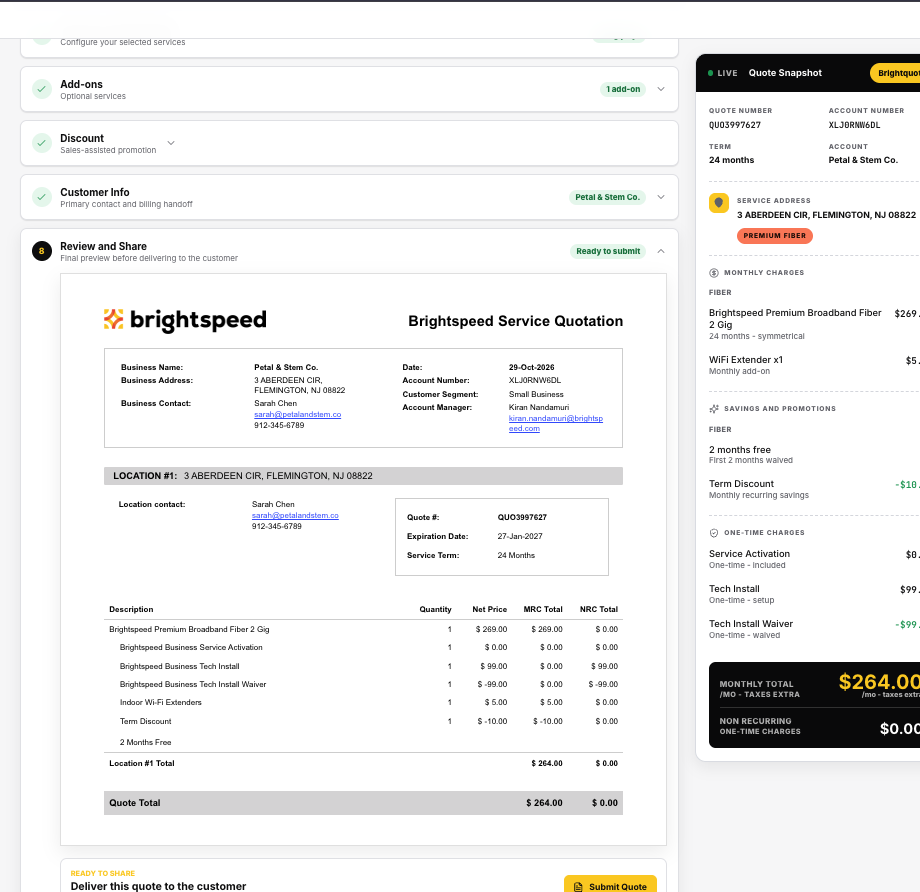
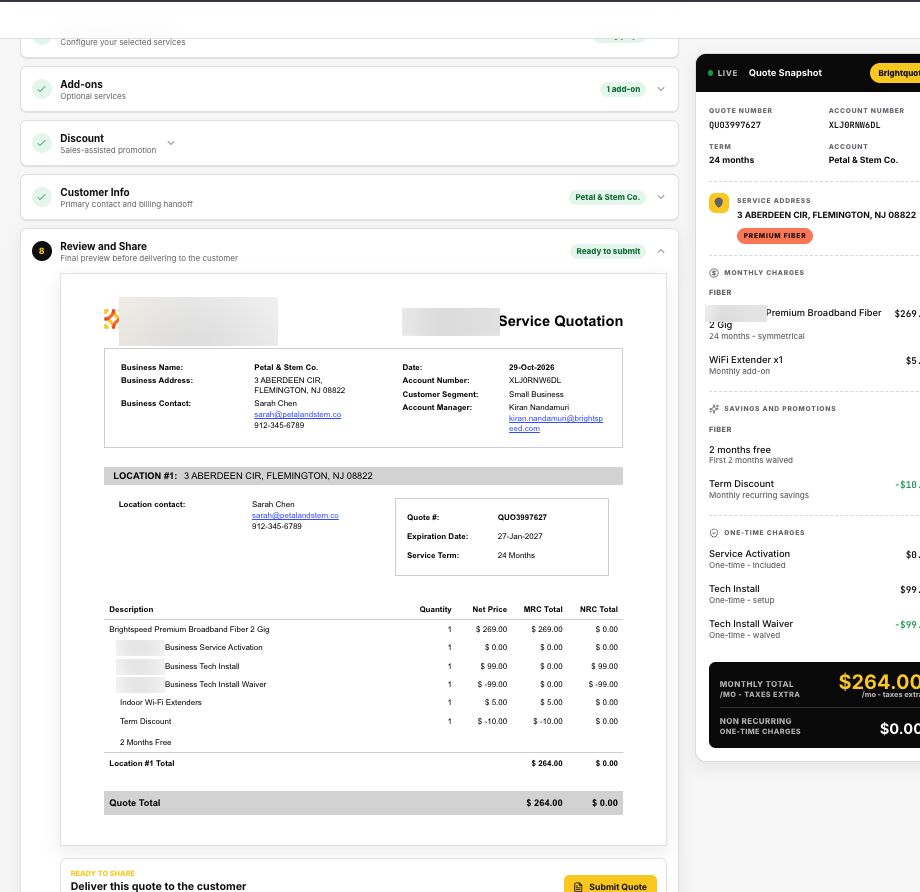
Remove client name from copy and blur it in screenshots
Claude-Session: https://claude.ai/code/session_01K16WNF7J7RLyXp5MuQU3xa

diff --git a/src/lib/cpq.ts b/src/lib/cpq.ts
@@ -7,14 +7,14 @@ const img = (n: string) => asset(`cpq/${n}.png`);
 export const cpq: Study = {
   slug: 'cpq',
   title: 'CPQ 2.0 & Express Quote',
-  eyebrow: 'Brightspeed · Sales quoting',
+  eyebrow: 'US telecom · Sales quoting',
   artDir: 'cpq',
   next: { to: '/work/cost-of-attention', label: 'Next study: The Cost of Attention' },
   slides: [
     {
       nav: 'Overview',
       kind: 'title',
-      eyebrow: 'Case study · Brightspeed',
+      eyebrow: 'Case study · US telecom',
       title: 'CPQ 2.0 & Express Quote',
       lead: 'A quoting tool that took agents two and a half hours per quote, rebuilt as a four-stage flow that takes thirty minutes. Then a second, faster path once the data showed customers stop listening at fifteen. I was the only designer on both. Somewhere in the middle I stopped handing over Figma files and started handing over code, and this is the story of how that happened.',
       facts: [['Role', 'Sole designer · ~300 developers · 560 screens'], ['Arc', 'Product thinking → systems thinking → engineering ownership'], ['Status', 'CPQ 2.0 shipped, 700+ daily users · Express Quote shipped'], ['System', 'cpq-design-system-v20.vercel.app']],
@@ -26,7 +26,7 @@ export const cpq: Study = {
       chapter: '01 · The problem',
       title: 'Forty-seven steps in ServiceNow, and a quote that took most of an afternoon.',
       body: [
-        'An agent at Brightspeed helps a small or mid-size business buy connectivity and voice services. The opportunity starts in Salesforce; the quote gets built in CPQ. Picture a hospital with four branches. Each site can have different services, different product eligibility (copper here, fibre there), different billing accounts. The agent has to get all of that right without calling the customer back four times.',
+        'An agent at the telecom helps a small or mid-size business buy connectivity and voice services. The opportunity starts in Salesforce; the quote gets built in CPQ. Picture a hospital with four branches. Each site can have different services, different product eligibility (copper here, fibre there), different billing accounts. The agent has to get all of that right without calling the customer back four times.',
         'CPQ 1.0 was a ServiceNow workflow with around 47 steps. Data came from BRIM and AMS and the APIs failed often enough that agents had learned to expect it. Nothing was carried forward between steps, so the agent had to remember what they had entered, or write it down. Invalid product combinations were easy to pick and expensive to unpick later. One quote took two and a half to three hours.',
         'In the first walkthrough someone said the chance of an error on a quote was "about 95%". I have never been able to pin down how that was measured, so I do not use it as a number. I use it as a description of how people felt about the tool.',
       ],

diff --git a/src/pages/home.tsx b/src/pages/home.tsx
@@ -130,7 +130,7 @@ export default function Home() {
         <Reveal><SectionLabel number="03">About</SectionLabel></Reveal>
         <div className="grid items-start gap-10 md:grid-cols-[1fr_272px]">
           <Reveal stagger={0.1} className="max-w-[640px] space-y-5 text-base leading-7">
-            <p>Senior product designer at Infinite Computer Solutions, embedded as the only UX designer on Brightspeed’s business platforms: quoting, billing, and the tools agents use on calls.</p>
+            <p>Senior product designer at Infinite Computer Solutions, embedded as the only UX designer on a US telecom’s business platforms: quoting, billing, and the tools agents use on calls.</p>
             <p>Seven years in, self-taught across design and engineering. I prototype the interfaces I design, in React, Three.js and Babylon.js, because a working thing settles an argument faster than a mock does.</p>
             <p>I use AI heavily to build and to draw. The character on this page is generated to my own definition, and I’d rather say that than hide it.</p>
             <p className="text-ink-2">Based in {site.location}.</p>

diff --git a/src/lib/coa.ts b/src/lib/coa.ts
@@ -7,14 +7,14 @@ const img = (n: string) => asset(`coa/${n}.png`);
 export const coa: Study = {
   slug: 'cost-of-attention',
   title: 'The Cost of Attention',
-  eyebrow: 'Brightspeed · Business Hub + Business 360',
+  eyebrow: 'US telecom · Business Hub + Business 360',
   artDir: 'coa',
   next: { to: '/work/cpq', label: 'Next study: CPQ 2.0 & Express Quote' },
   slides: <Slide[]>[
     {
       nav: 'Overview',
       kind: 'title',
-      eyebrow: 'Case study · Brightspeed',
+      eyebrow: 'Case study · US telecom',
       title: 'The Cost of Attention',
       lead: 'A business customer owes money across several accounts. One person has to collect it, another has to keep running their business while they owe it. I was asked for a banner. This is what I did instead, and what it cost.',
       facts: [['Role', 'Sole UX designer, embedded'], ['Surfaces', 'Agent (B360) · Customer (Hub)'], ['Owned', 'Interaction model, hierarchy, phasing'], ['Status', 'Agent side shipped · Hub phase 1 in build']],

diff --git a/src/lib/site.ts b/src/lib/site.ts
@@ -28,7 +28,7 @@ export type CaseStudy = {
 export const caseStudies: CaseStudy[] = [
   {
     slug: 'cost-of-attention',
-    eyebrow: 'Brightspeed · Business Hub + Business 360',
+    eyebrow: 'US telecom · Business Hub + Business 360',
     title: 'The Cost of Attention',
     lead: 'Designing billing urgency that two different people can live with: the agent who has to collect, and the customer who still has a business to run.',
     facts: [
@@ -40,7 +40,7 @@ export const caseStudies: CaseStudy[] = [
   },
   {
     slug: 'cpq',
-    eyebrow: 'Brightspeed · Sales quoting',
+    eyebrow: 'US telecom · Sales quoting',
     title: 'CPQ 2.0 & Express Quote',
     lead: 'A 47-step quoting tool rebuilt as four stages, then a second, faster path once the data showed customers stop listening at fifteen minutes.',
     facts: [

diff --git a/scripts/scrub-name.py b/scripts/scrub-name.py
@@ -1,0 +1,28 @@
+# Blur every occurrence of a word in a screenshot (OCR at 2x for recall), then re-check. usage: python3 scripts/scrub-name.py WORD file...
+import sys, subprocess, csv, io
+from PIL import Image, ImageFilter
+word = sys.argv[1].lower()
+def boxes(im, scale):
+    big = im.resize((im.width*scale, im.height*scale), Image.LANCZOS)
+    tsv = subprocess.run(['tesseract','stdin','-','--psm','11','tsv'], input=big.convert('RGB').tobytes() if False else None, capture_output=True) if False else None
+    big.save('/tmp/_ocr.png')
+    out = subprocess.run(['tesseract','/tmp/_ocr.png','-','--psm','11','tsv'], capture_output=True, text=True).stdout
+    bx = []
+    for r in csv.DictReader(io.StringIO(out), delimiter='\t', quoting=csv.QUOTE_NONE):
+        if r.get('text') and word in r['text'].lower():
+            l,t,w,h = (int(r[k])//scale for k in ('left','top','width','height'))
+            bx.append((l,t,w,h))
+    return bx
+for p in sys.argv[2:]:
+    im = Image.open(p).convert('RGB'); total = 0
+    for rnd in range(3):
+        bx = boxes(im,1) + boxes(im,2)
+        if not bx: break
+        for l,t,w,h in bx:
+            pad = max(4, h//2)
+            box = (max(0,l-pad), max(0,t-pad), min(im.width,l+w+pad), min(im.height,t+h+pad))
+            region = im.crop(box).filter(ImageFilter.GaussianBlur(radius=max(6,h)))
+            im.paste(region, box); total += 1
+    im.save(p, optimize=True)
+    left = boxes(im,1)+boxes(im,2)
+    print(f'{p}: blurred {total}, remaining {len(left)}')

diff --git a/ILLUSTRATIONS.md b/ILLUSTRATIONS.md
@@ -17,7 +17,7 @@ in it (the agent). Right screen has a calm billing tile with a small carousel an
 customer). Under both, a single bracket joins them to one small database/cylinder icon: same data,
 different hierarchy. No character. 16:9, elements centred, generous margin.
 
-## 2. Case study card — Brightquote CPQ (replaces `CpqArt`)
+## 2. Case study card — CPQ (replaces `CpqArt`)
 Left: a tall form with many rows of tiny fields, slightly overwhelming. An arrow to the right.
 Right: three speech bubbles stacked like a chat, the last one with a tick. No character. 16:9.
 
